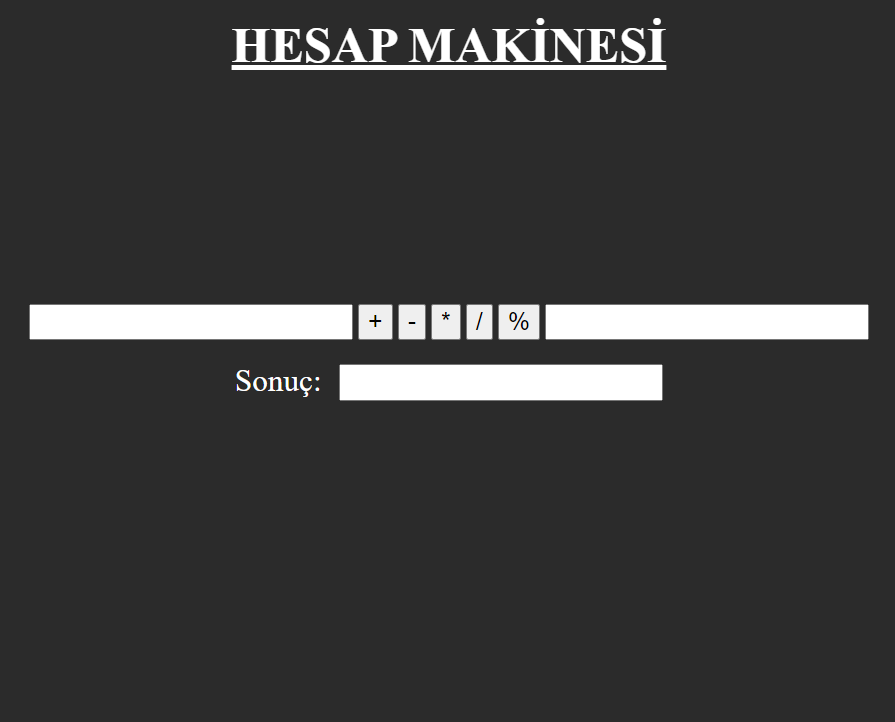
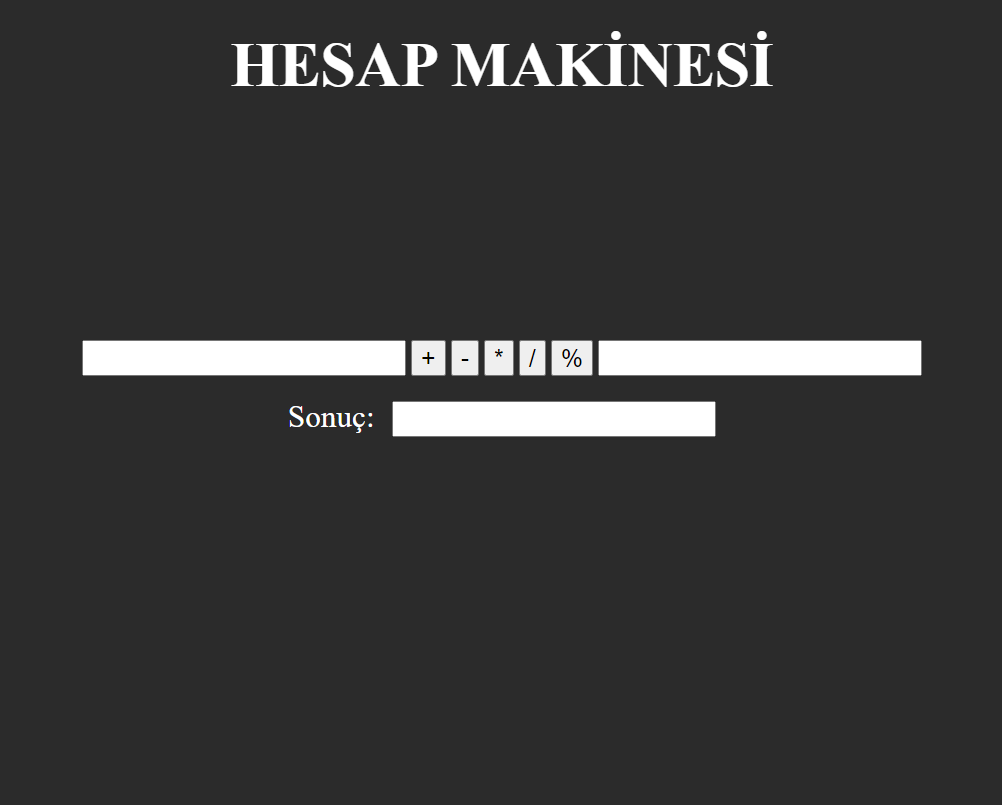
final updates2

Changed region(s): [[0.0302, 0.3961, 0.9955, 0.5789], [0.2112, 0.0305, 0.7844, 0.1219]]

diff --git a/projeler.html b/projeler.html
@@ -18,7 +18,7 @@
       </p>
 
       <div class="container">
-        <a href="smilyFace.html" target="_blank"
+        <a href="smilyFace.html" target="_top"
           ><img
             style="
               width: 250px;
@@ -33,7 +33,7 @@
       </div>
 
       <div class="container">
-        <a href="metin.html" target="_blank"
+        <a href="metin.html" target="_top"
           ><img
             style="
               width: 250px;
@@ -48,7 +48,7 @@
       </div>
 
       <div class="container">
-        <a href="hesapMakinasi.html" target="_blank"
+        <a href="hesapMakinasi.html" target="_top"
           ><img
             style="
               width: 250px;
@@ -63,7 +63,7 @@
       </div>
 
       <div class="container">
-        <a href="push_pop.html" target="_blank"
+        <a href="push_pop.html" target="_top"
           ><img
             style="
               width: 250px;

diff --git a/iletişim.html b/iletişim.html
@@ -64,7 +64,7 @@
       src="https://www.google.com/maps/embed?pb=!1m18!1m12!1m3!1d3128.76093762016!2d38.31885598470685!3d38.35451487965805!2m3!1f0!2f0!3f0!3m2!1i1024!2i768!4f13.1!3m3!1m2!1s0x4076378bfec08d2b%3A0xa3fde414a007e443!2zw5Z6ZWwgRW5zYXIgVmFrZsSxIE1hbGF0eWEgWcO8a3Nla8OWxJ9yZW5pbSBFcmtlayDDlsSfcmVuY2kgWXVyZHU!5e0!3m2!1sar!2str!4v1645703737496!5m2!1sar!2str"
       width="800"
       height="550"
-      style="border: 0; margin-left: 24%; margin-bottom: 10px"
+      style="border: 2 black; margin-left: 24%; margin-bottom: 10px"
       allowfullscreen=""
       loading="lazy"
     ></iframe>

diff --git a/smilyFace.html b/smilyFace.html
@@ -18,13 +18,7 @@
         d="M 660,350 Q 745,430 830,350 "
       />
     </svg>
-    <p id="metin" style="color: rgb(89, 89, 231); font-size: 30px">İlk Metin</p>
-    <button onclick="renkDeğiştirme()">degiştir</button>
-
     <script>
-      function renkDeğiştirme() {
-        document.getElementById("metin").style = "color: red; font-size: 30px";
-      }
       const Öğrenci = {
         adı: "Amr",
         No: 2210224064,

diff --git a/style.css b/style.css
@@ -159,7 +159,7 @@
   font-size: 20px;
   border-color: transparent;
  background-color: rgb(242, 242, 242) ;
- margin-left: 230px;
+ margin-left: 200px;
  border-color:black ;
 }
 
@@ -206,10 +206,9 @@
 .HMbaslik{
   text-align: center;
   color: white;
-  font-size: 40px;
-  font-weight: bold;
+  font-size: 50px;
   padding-top: 40px;
-  text-decoration: underline;
+
 }
 
 

diff --git a/hakkimda.html b/hakkimda.html
@@ -44,9 +44,9 @@
 
     <iframe
       width="100%"
-      height="17%"
+      height="250px"
       scrolling="no"
-      style="margin-right: 70px; margin-top: 230px"
+      style="margin-right: 80px; margin-top: 230px"
       src="HaftalikDersler.html"
       frameborder="0"
     ></iframe>

diff --git a/index.html b/index.html
@@ -31,7 +31,7 @@
       <iframe
         id="projeler"
         width="1200px"
-        height="80%"
+        height="700px"
         scrolling="no"
         style="margin-top: 100px; margin-left: 130px; border-radius: 20px"
         src="projeler.html"
